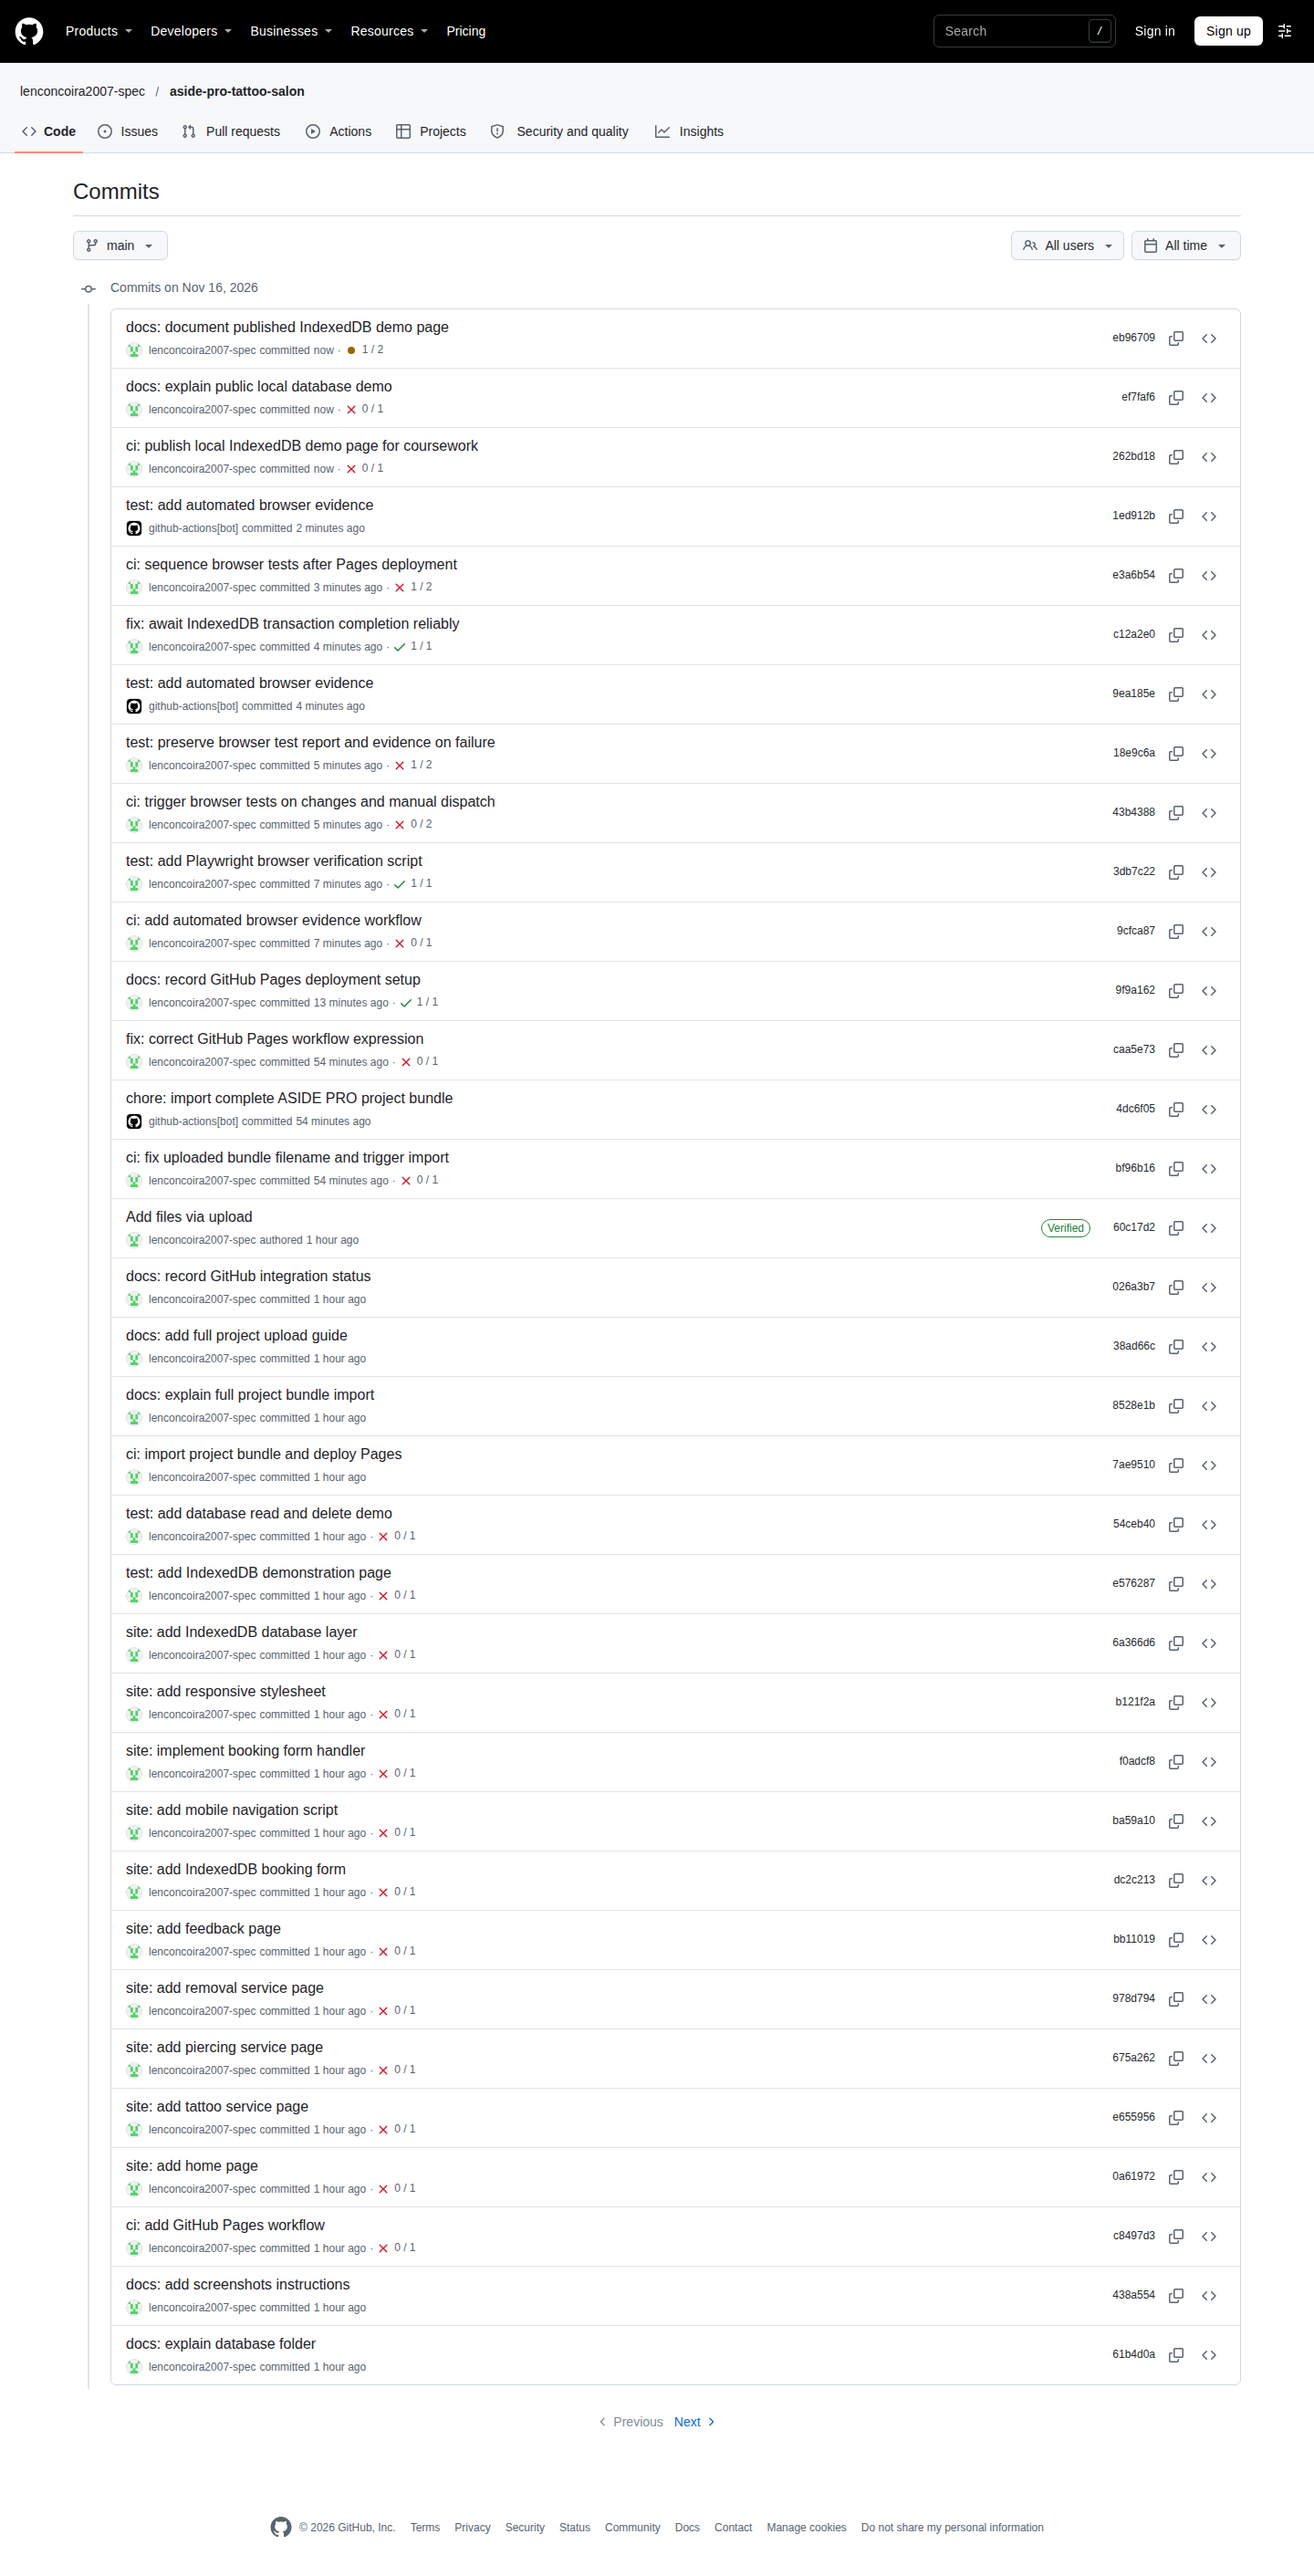
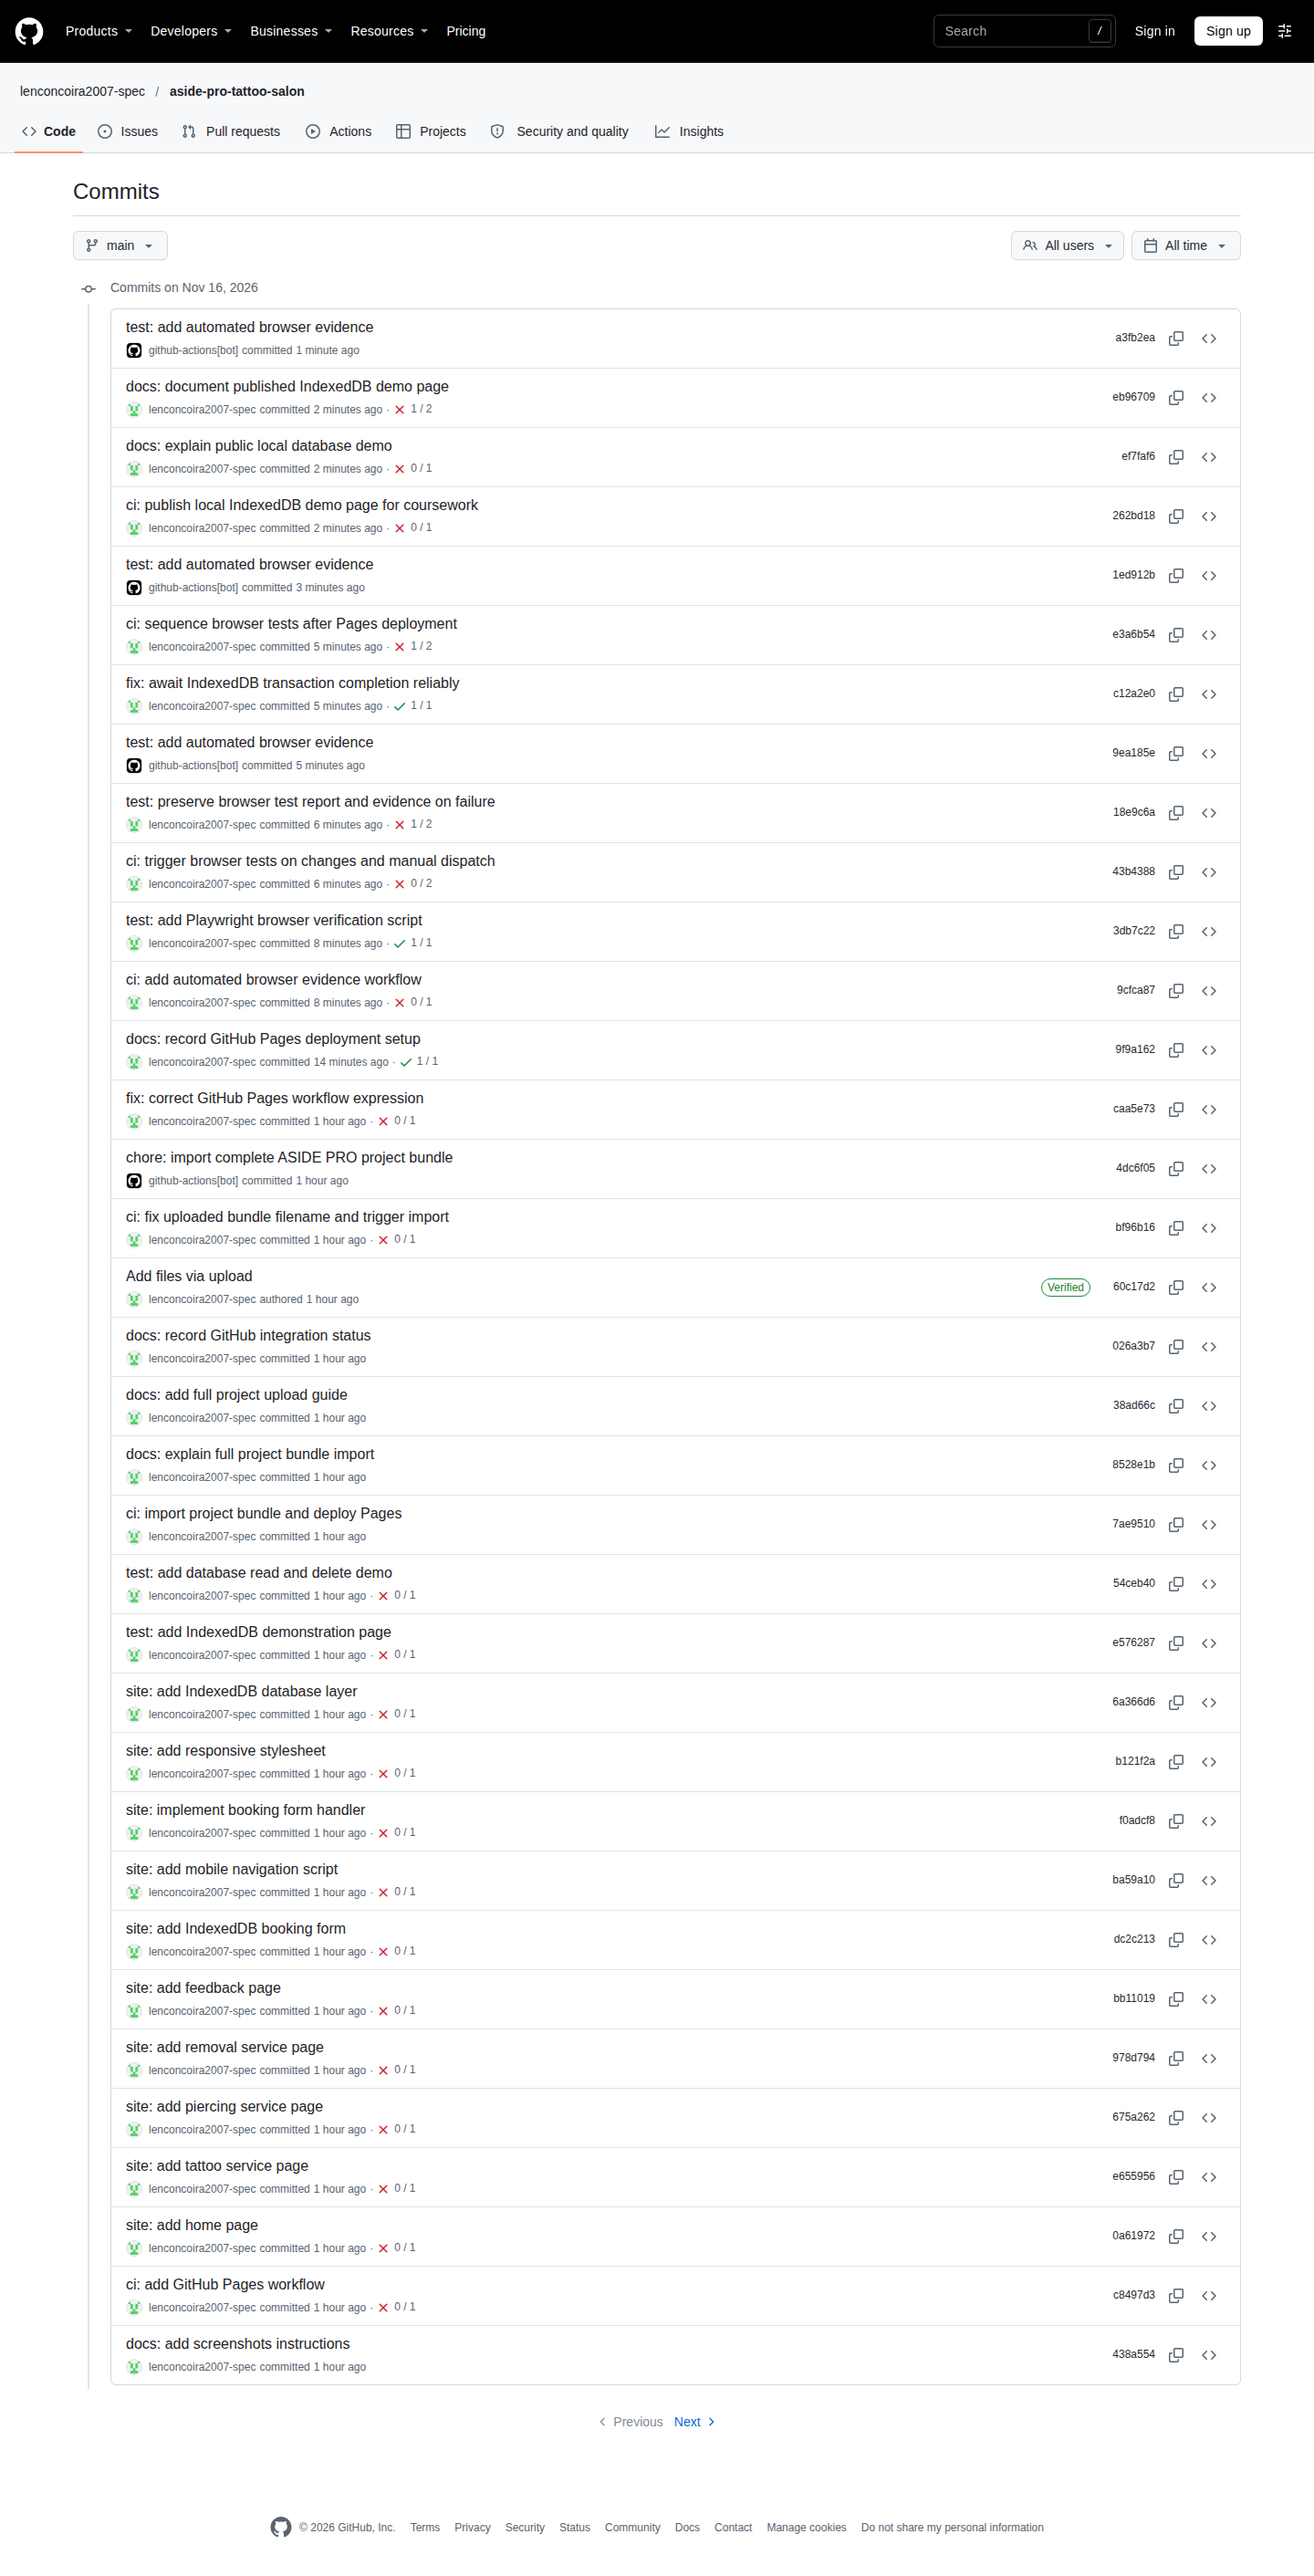
test: add automated browser evidence

diff --git a/docs/evidence-register.md b/docs/evidence-register.md
@@ -1,1 +1,1 @@
-# Реестр автоматических скриншотов-подтверждений\n\nСнимки получены в реальном браузере Chromium на GitHub-hosted Ubuntu runner при проверке опубликованного сайта. Они не являются снимками локального Windows-экрана.\n\n| Файл | Путь | Происхождение |\n|---|---|---|\n| 01-homepage.png | screenshots/auto/01-homepage.png | Captured in GitHub-hosted Chromium |\n| 02-tattoo-service.png | screenshots/auto/02-tattoo-service.png | Captured in GitHub-hosted Chromium |\n| 03-piercing-service.png | screenshots/auto/03-piercing-service.png | Captured in GitHub-hosted Chromium |\n| 04-removal-service.png | screenshots/auto/04-removal-service.png | Captured in GitHub-hosted Chromium |\n| 05-feedback.png | screenshots/auto/05-feedback.png | Captured in GitHub-hosted Chromium |\n| 06-registration.png | screenshots/auto/06-registration.png | Captured in GitHub-hosted Chromium |\n| 07-test-appointment-saved.png | screenshots/auto/07-test-appointment-saved.png | Captured in GitHub-hosted Chromium |\n
+# Реестр автоматических скриншотов-подтверждений\n\nСнимки получены в реальном браузере Chromium на GitHub-hosted Ubuntu runner при проверке опубликованного сайта. Они не являются снимками локального Windows-экрана.\n\n| Файл | Путь | Происхождение |\n|---|---|---|\n| 01-homepage.png | screenshots/auto/01-homepage.png | Captured in GitHub-hosted Chromium |\n| 02-tattoo-service.png | screenshots/auto/02-tattoo-service.png | Captured in GitHub-hosted Chromium |\n| 03-piercing-service.png | screenshots/auto/03-piercing-service.png | Captured in GitHub-hosted Chromium |\n| 04-removal-service.png | screenshots/auto/04-removal-service.png | Captured in GitHub-hosted Chromium |\n| 05-feedback.png | screenshots/auto/05-feedback.png | Captured in GitHub-hosted Chromium |\n| 06-registration.png | screenshots/auto/06-registration.png | Captured in GitHub-hosted Chromium |\n| 07-test-appointment-saved.png | screenshots/auto/07-test-appointment-saved.png | Captured in GitHub-hosted Chromium |\n| 08-indexeddb-appointment-visible.png | screenshots/auto/08-indexeddb-appointment-visible.png | Captured in GitHub-hosted Chromium |\n| 09-indexeddb-after-delete.png | screenshots/auto/09-indexeddb-after-delete.png | Captured in GitHub-hosted Chromium |\n| 10-mobile-homepage.png | screenshots/auto/10-mobile-homepage.png | Captured in GitHub-hosted Chromium |\n| 11-github-repository.png | screenshots/auto/11-github-repository.png | Captured in GitHub-hosted Chromium |\n| 12-github-commit-history.png | screenshots/auto/12-github-commit-history.png | Captured in GitHub-hosted Chromium |\n| 13-github-actions-success.png | screenshots/auto/13-github-actions-success.png | Captured in GitHub-hosted Chromium |\n

diff --git a/docs/verification-results.md b/docs/verification-results.md
@@ -1,10 +1,10 @@
 # Automated browser verification
 
 - Project: ASIDE PRO Tattoo Salon
-- Date: 2026-11-16T16:48:08.449Z
+- Date: 2026-11-16T16:51:52.240Z
 - Environment: GitHub-hosted Ubuntu runner, Playwright Chromium
 - Published URL: https://lenconcoira2007-spec.github.io/aside-pro-tattoo-salon/
-- Passed: 10
+- Passed: 17
 - Failed: 0
 
 - [Passed] HTTP index.html
@@ -17,5 +17,12 @@
 - [Passed] Services loaded from IndexedDB
 - [Passed] Required-field validation
 - [Passed] Create appointment
+- [Passed] Appointment persists and can be read
+- [Passed] Delete test appointment
+- [Passed] IndexedDB database exists
+- [Passed] Mobile layout has no horizontal overflow
+- [Passed] Mobile navigation toggles
+- [Passed] Browser console is clean
+- [Passed] No failed network requests
 
 Screenshots are stored in `screenshots/auto/`. Only actual browser captures are included.

diff --git a/screenshots/auto/test-summary.md b/screenshots/auto/test-summary.md
@@ -1,10 +1,10 @@
 # Automated browser verification
 
 - Project: ASIDE PRO Tattoo Salon
-- Date: 2026-11-16T16:48:08.449Z
+- Date: 2026-11-16T16:51:52.240Z
 - Environment: GitHub-hosted Ubuntu runner, Playwright Chromium
 - Published URL: https://lenconcoira2007-spec.github.io/aside-pro-tattoo-salon/
-- Passed: 10
+- Passed: 17
 - Failed: 0
 
 - [Passed] HTTP index.html
@@ -17,5 +17,12 @@
 - [Passed] Services loaded from IndexedDB
 - [Passed] Required-field validation
 - [Passed] Create appointment
+- [Passed] Appointment persists and can be read
+- [Passed] Delete test appointment
+- [Passed] IndexedDB database exists
+- [Passed] Mobile layout has no horizontal overflow
+- [Passed] Mobile navigation toggles
+- [Passed] Browser console is clean
+- [Passed] No failed network requests
 
 Screenshots are stored in `screenshots/auto/`. Only actual browser captures are included.
